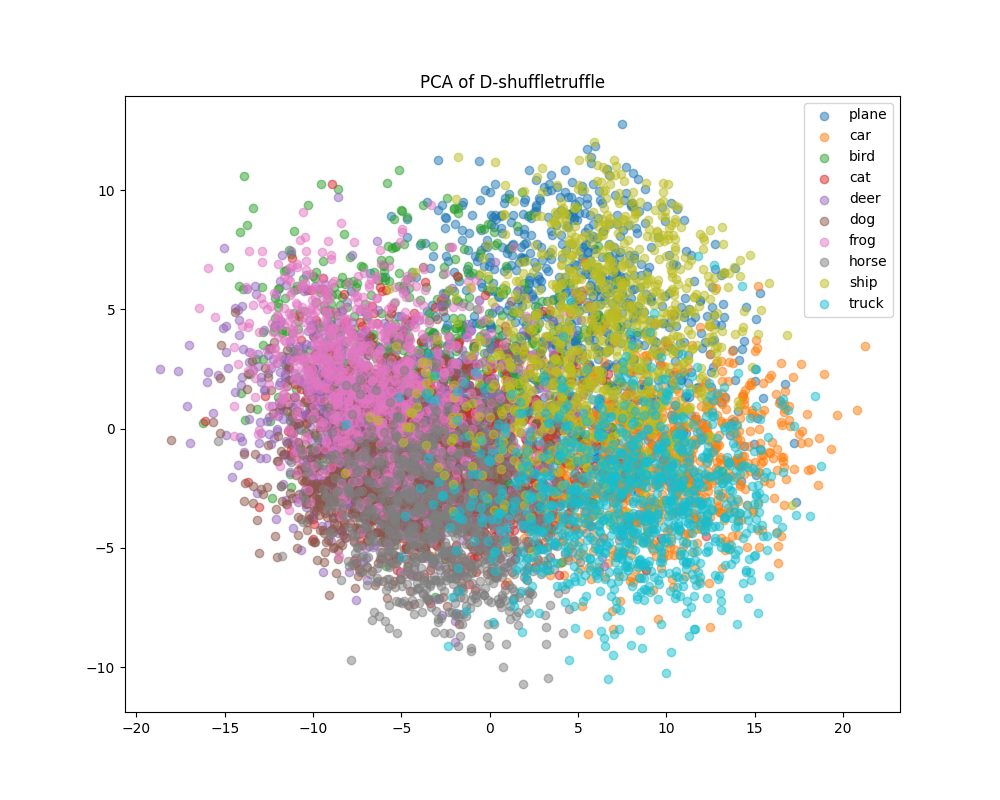
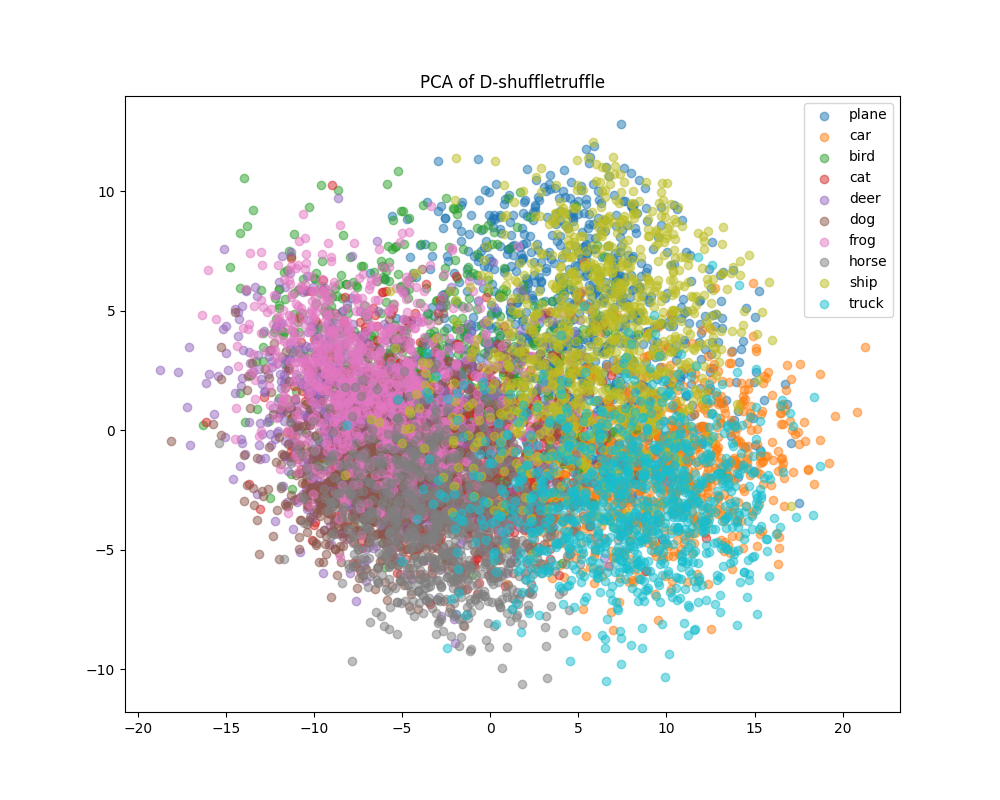
Added results for plain model

diff --git a/eval.py b/eval.py
@@ -16,6 +16,7 @@ classes = ('plane', 'car', 'bird', 'cat',
 
 transform_test = transforms.Compose([
     transforms.ToTensor(),
+    transforms.Normalize((0.5, 0.5, 0.5), (0.5, 0.5, 0.5))
 ])
 
 
@@ -47,34 +48,36 @@ def evaluate_model(net, batch_size=100):
 
 
 def sample_analysis(net):
-    testset = torchvision.datasets.CIFAR10(root='./data', train=False, download=True, transform=transform_test)
+    testset = torchvision.datasets.CIFAR10(root='./data', train=False, download=True, transform=transforms.ToTensor())
     testloader = torch.utils.data.DataLoader(testset, batch_size=1, shuffle=False)  # Load one by one
     samples, predictions, labels = [], [], []
     with torch.no_grad():
         for i, (data, target) in enumerate(testloader):
             if i >= 25:  # process the first 25 samples
                 break
-            original_img = data.to('cpu')
             label = target.item()
+            data = data.to('cpu')
             # Shuffle images
             img_16x16 = torch.tensor(
-                shuffle(16, original_img.clone().squeeze(0).permute(1, 2, 0).detach().numpy())).permute(2, 0,
+                shuffle(16, data.clone().squeeze(0).permute(1, 2, 0).detach().numpy())).permute(2, 0,
                                                                                                         1).unsqueeze(
                 0).to(device)
             img_8x8 = torch.tensor(
-                shuffle(8, original_img.clone().squeeze(0).permute(1, 2, 0).detach().numpy())).permute(2, 0,
+                shuffle(8, data.clone().squeeze(0).permute(1, 2, 0).detach().numpy())).permute(2, 0,
                                                                                                        1).unsqueeze(
                 0).to(device)
             original_img = data.to(device)
 
             versions = [original_img, img_16x16, img_8x8]
             version_preds = []
+            norm = transforms.Normalize((0.5, 0.5, 0.5), (0.5, 0.5, 0.5))
 
             for version in versions:
-                output = net(version)
-                pred = output.argmax(dim=0, keepdim=True).item()
-                version_preds.append(pred)
-
+                output = net(norm(version.clone()))
+                if output.dim() == 1:
+                    output = output.unsqueeze(0)
+                _, predicted = torch.max(output.data, 1)
+                version_preds.append(predicted.item())
             samples.append([original_img.cpu(), img_16x16.cpu(), img_8x8.cpu()])
             predictions.append(version_preds)
             labels.append(label)
@@ -152,7 +155,10 @@ def _visualize_samples(samples, predictions, labels, title, model_class):
 if __name__ == '__main__':
     device = torch.device('cuda' if torch.cuda.is_available() else 'cpu')
 
-    model_class = 'N-shuffletruffle'
+    model_class = 'Plain-Old-CIFAR10'
+    # model_class = 'D-shuffletruffle'
+    # model_class = 'N-shuffletruffle'
+
     print(f'Evaluating {model_class}...')
     net = model_picker(model_class).to(device)
 

diff --git a/utils.py b/utils.py
@@ -2,8 +2,7 @@ import numpy as np
 import torch
 
 from shuffle_vit import ShuffleViT
-from simple_vit import SimpleViT
-
+from torchvision import models
 
 def adjust_learning_rate(optimizer, current_epoch, learning_rate):
     lr_adjust = learning_rate * (0.5 ** ((current_epoch + 1) // 1))
@@ -14,7 +13,7 @@ def adjust_learning_rate(optimizer, current_epoch, learning_rate):
 
 def model_picker(model_class):
     if model_class == 'Plain-Old-CIFAR10':
-        net = SimpleViT(image_size=32, patch_size=8, num_classes=10, dim=192, depth=12, heads=3, mlp_dim=768)
+        net = models.resnet50(weights=None)
     elif model_class == 'D-shuffletruffle':
         net = ShuffleViT(model_class=model_class, image_size=32, patch_size=2, num_classes=10, dim=52, depth=6, heads=8, mlp_ratio=4)
     elif model_class == 'N-shuffletruffle':

diff --git a/README.md b/README.md
@@ -9,36 +9,45 @@ epochs, model_class, batch size, learning rate, and L2 regularization strength.
 
 | Model             | Unshuffled | 16x16 Shuffle | 8x8 Shuffle |
 |-------------------|------------|---------------|-------------|
-| Plain-Old-CIFAR10 |            |               |             |
-| D-shuffletruffle  | 1.15       | 1.16          | 1.54        |
-| N-shuffletruffle  | 1.26       | 1.26          | 1.26        |
+| Plain-Old-CIFAR10 | 0.78       | 2.38          | 2.89        |
+| D-shuffletruffle  | 1.14       | 1.14          | 1.47        |
+| N-shuffletruffle  | 1.27       | 1.27          | 1.27        |
 
 ### Accuracy
 
 | Model             | Unshuffled | 16x16 Shuffle | 8x8 Shuffle |
 |-------------------|------------|---------------|-------------|
-| Plain-Old-CIFAR10 |            |               |             |
-| D-shuffletruffle  | 58.96      | 58.93         | 47.06       |
-| N-shuffletruffle  | 55.06      | 55.02         | 55.06       |
-
+| Plain-Old-CIFAR10 | 74.70      | 36.33         | 26.41       |
+| D-shuffletruffle  | 59.77      | 59.7          | 48.34       |
+| N-shuffletruffle  | 54.720     | 54.63         | 54.68       |
 
 ## PCA Analysis
+
+### Plain-Old-CIFAR10
+
+![pca-p-shuffle](Figures/pca_Plain-Old-CIFAR10.png "pca-p-shuffletruffle.png" )
+
 ### D-shuffletruffle
-![pca-d-shuffle](Figures/pca_D-shuffletruffle.png "pca-D-shuffletruffle.png" ) 
+
+![pca-d-shuffle](Figures/pca_D-shuffletruffle.png "pca-d-shuffletruffle.png" )
 
 ### N-shuffletruffle
-![pca-d-shuffle](Figures/pca_N-shuffletruffle.png "pca-D-shuffletruffle.png" ) 
+
+![pca-n-shuffle](Figures/pca_N-shuffletruffle.png "pca-n-shuffletruffle.png" )
 
 ## Sample Analysis
 
-### D-shuffletruffle
-![d-shuffle](Figures/D-shuffletruffle.png "D-shuffletruffle.png" ) 
+### Plain-Old-CIFAR10
 
+![p-shuffle](Figures/Plain-Old-CIFAR10.png "p-shuffletruffle.png" )
+
+### D-shuffletruffle
+
+![d-shuffle](Figures/D-shuffletruffle.png "d-shuffletruffle.png" )
 
 ### N-shuffletruffle
-![n-shuffle](Figures/N-shuffletruffle.png "N-shuffletruffle.png")
 
-
+![n-shuffle](Figures/N-shuffletruffle.png "n-shuffletruffle.png")
 
 ## Example Command
 
